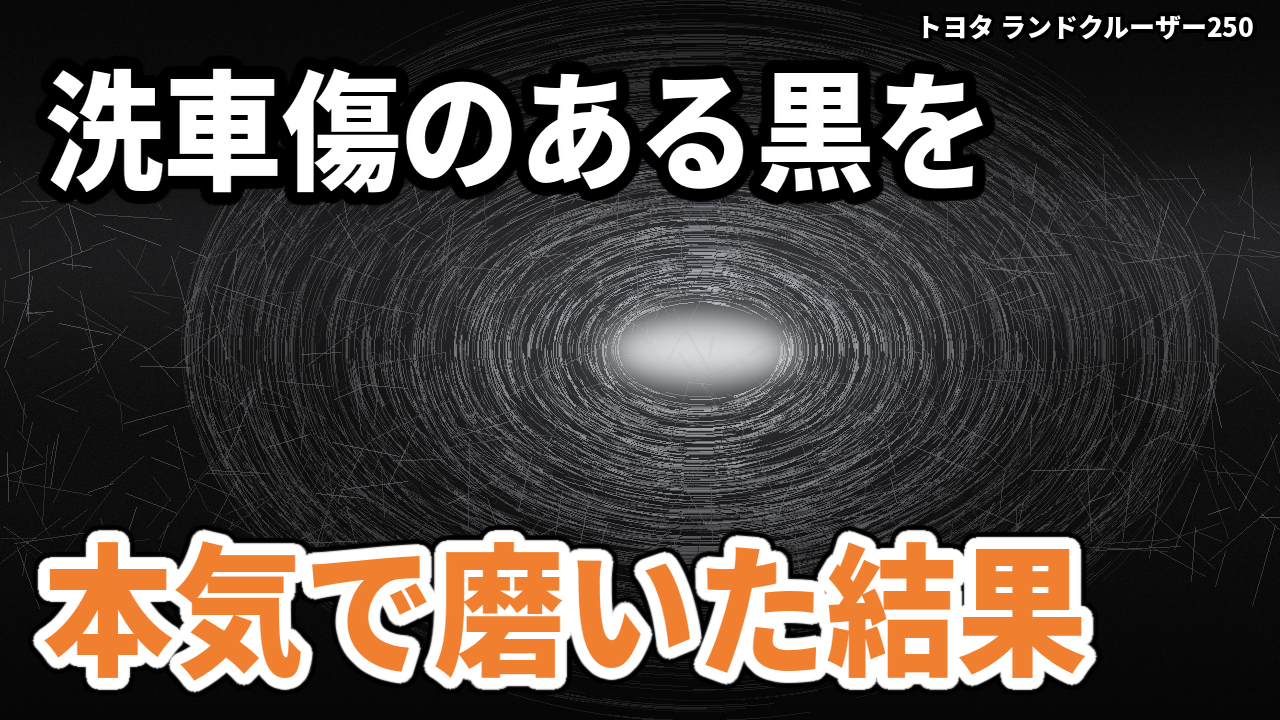
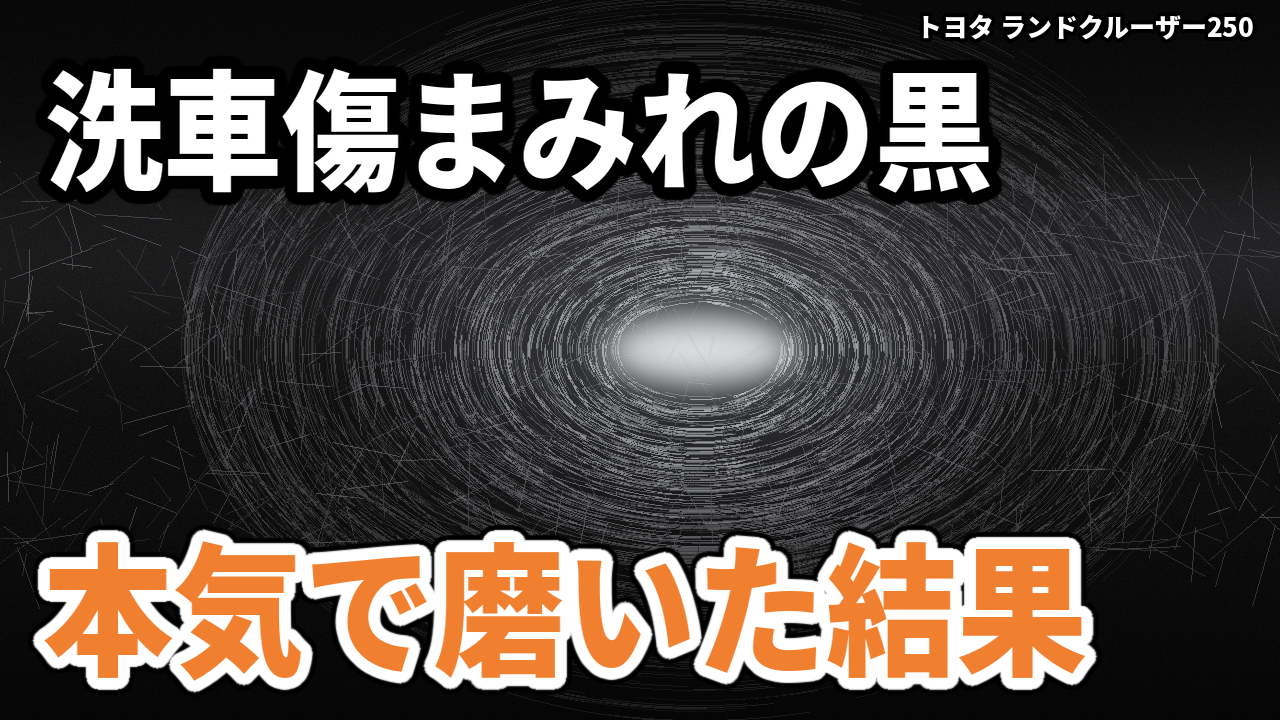
BPP ランクル250 洗車傷の回：最終Cを「洗車傷まみれの黒／本気で磨いた結果」に更新、final_contact_sheet を作り直し
Claude-Session: https://claude.ai/code/session_01VjwRN8DxhXyDc2krxHtZnD

Changed region(s): [[0.3125, 0.0611, 0.7812, 0.3056]]

diff --git a/COO/scripts/bpp_thumb_lc250_scratch.py b/COO/scripts/bpp_thumb_lc250_scratch.py
@@ -31,8 +31,8 @@ from bpp_thumb_comps import (H, LOWER_BOX, NAVY, ORANGE, RED, UPPER_BOX, W, add_
 # 上段は 2026-10-12 版の枠を 3px 上げる（縁取りのにじみが中段 y210 にかからないように）
 UPPER_BOX = (UPPER_BOX[0], UPPER_BOX[1] - 3, UPPER_BOX[2], UPPER_BOX[3] - 3)
 
-# 最終 3 案（Tak 決定）：(提出名, 元の案)。C0・C2・B2・A_alt は不採用
-FINAL = [("A", "A"), ("B", "B"), ("C", "C1")]
+# 最終 3 案（Tak 決定）：(提出名, 元の案)。C0・C1・C2・B2・A_alt は不採用
+FINAL = [("A", "A"), ("B", "B"), ("C", "C_final")]
 SHEET_ORDER = ("A", "B", "C0", "C1", "C2")  # コンタクトシートに並べる順（B2・A_alt はファイルだけ残す）
 
 # 句読点（、。）は全角の箱の右半分が空いていて字間が間延びするので、字面の右端＋少しで次の字へ送る
@@ -77,6 +77,7 @@ PATTERNS = [
     dict(label="B2", upper="パール無しの黒", lower="傷はごまかせない", scene="swirl_macro"),
     dict(label="C0", upper="どこまで取れる？", lower="黒の洗車傷", scene="swirl_macro"),  # 旧 C
     dict(label="C1", upper="洗車傷のある黒を", lower="本気で磨いた結果", scene="swirl_macro"),
+    dict(label="C_final", upper="洗車傷まみれの黒", lower="本気で磨いた結果", scene="swirl_macro"),  # Tak 確定（C1 の上段を変更）
     dict(label="C2", upper="黒の洗車傷", lower="光を当てると…", scene="swirl_macro"),
     # A の別案（コンタクトシートには入れない）：Before/After にして「磨けば戻る」に寄せる
     dict(label="A_alt", upper="ディーラーコーティング", lower="1年後の黒ランクル", scene="before_after"),
@@ -215,7 +216,7 @@ def main():
     for name, src in FINAL:
         p, comp = by_label[src]
         comp.save(os.path.join(a.out, "final", f"{name}.png"))
-        final_items.append((name if name == src else f"{name}（{src}）", p, comp))
+        final_items.append((name, p, comp))
     contact_sheet(final_items, a.font, "BPP ランクル250（黒）洗車傷の回｜最終3案（仮背景）").save(
         os.path.join(a.out, "final_contact_sheet.png"))
 
